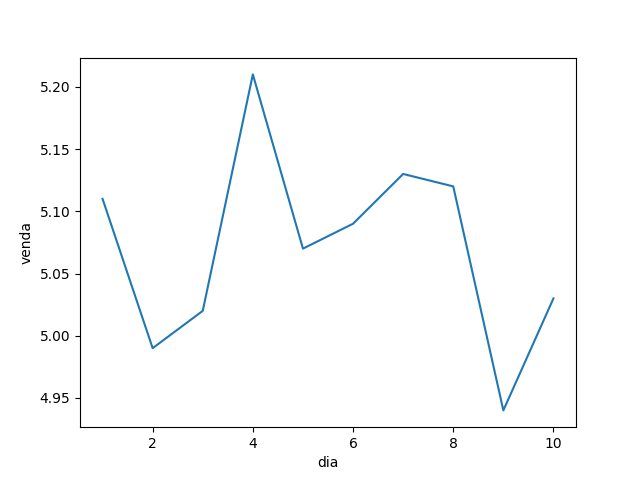
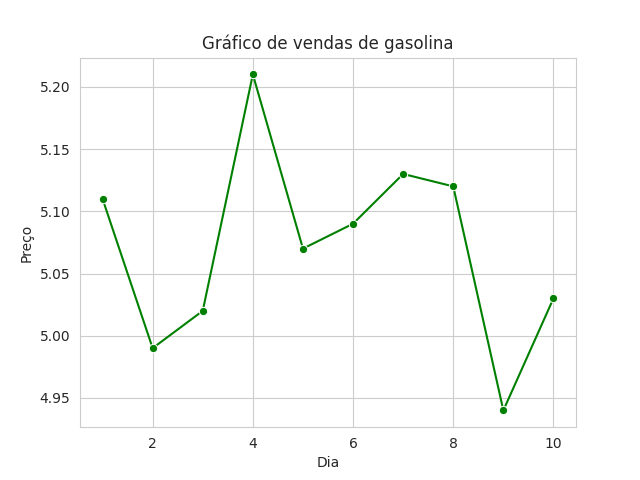
Arquivo gasolina.py alterado

diff --git a/gasolina.py b/gasolina.py
@@ -4,7 +4,9 @@ import seaborn as sns
 import pandas as pd
 import matplotlib.pyplot as plt
 
-df = pd.read_csv('gasolina.csv')
+df = pd.read_csv("gasolina.csv") 
 
-sns.lineplot(data=df, x='dia', y='venda')
-plt.savefig('gasolina.png')
+with sns.axes_style ('whitegrid') :
+  grafico = sns.lineplot(data = df, x = "dia", y = "venda", color = "green", marker = "o")
+  grafico.set(title='Gráfico de vendas de gasolina', xlabel='Dia', ylabel='Preço')
+  plt.savefig('gasolina.png')
